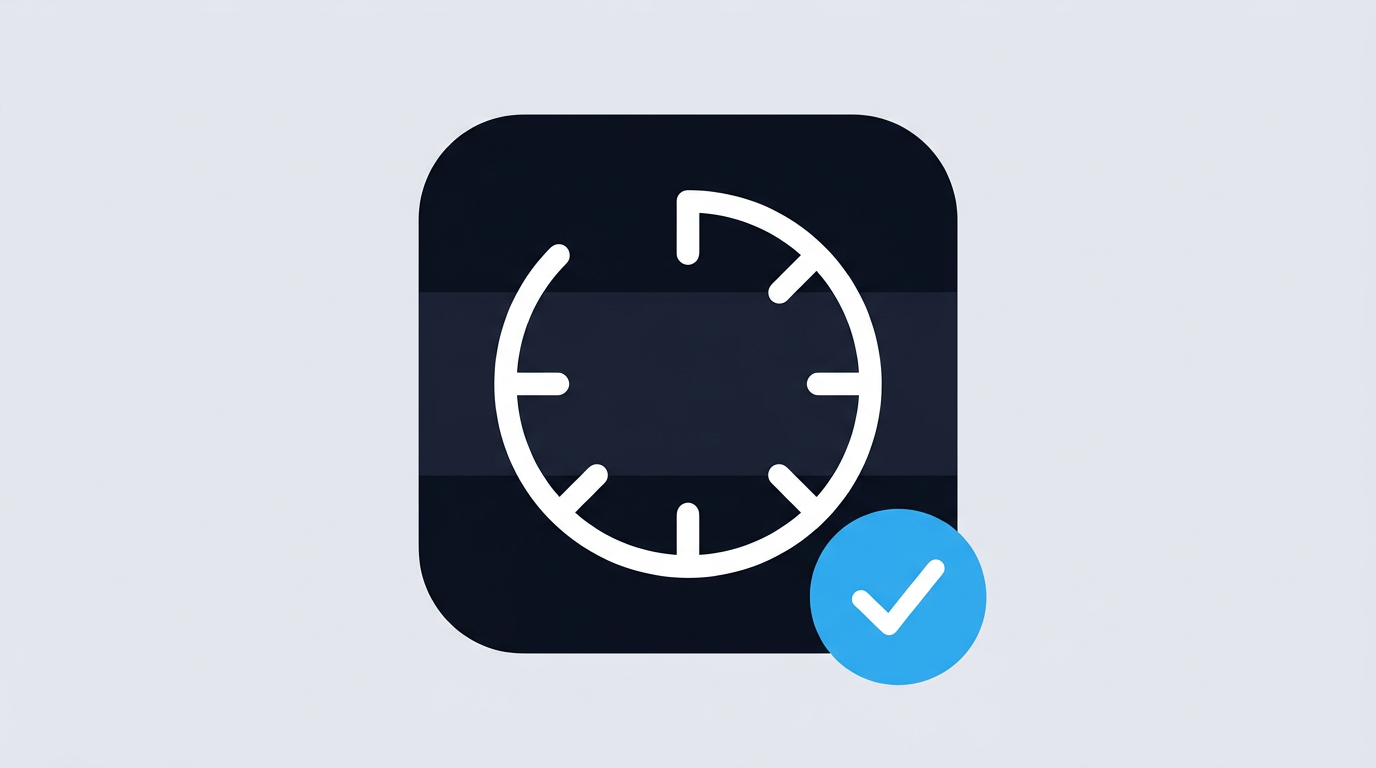
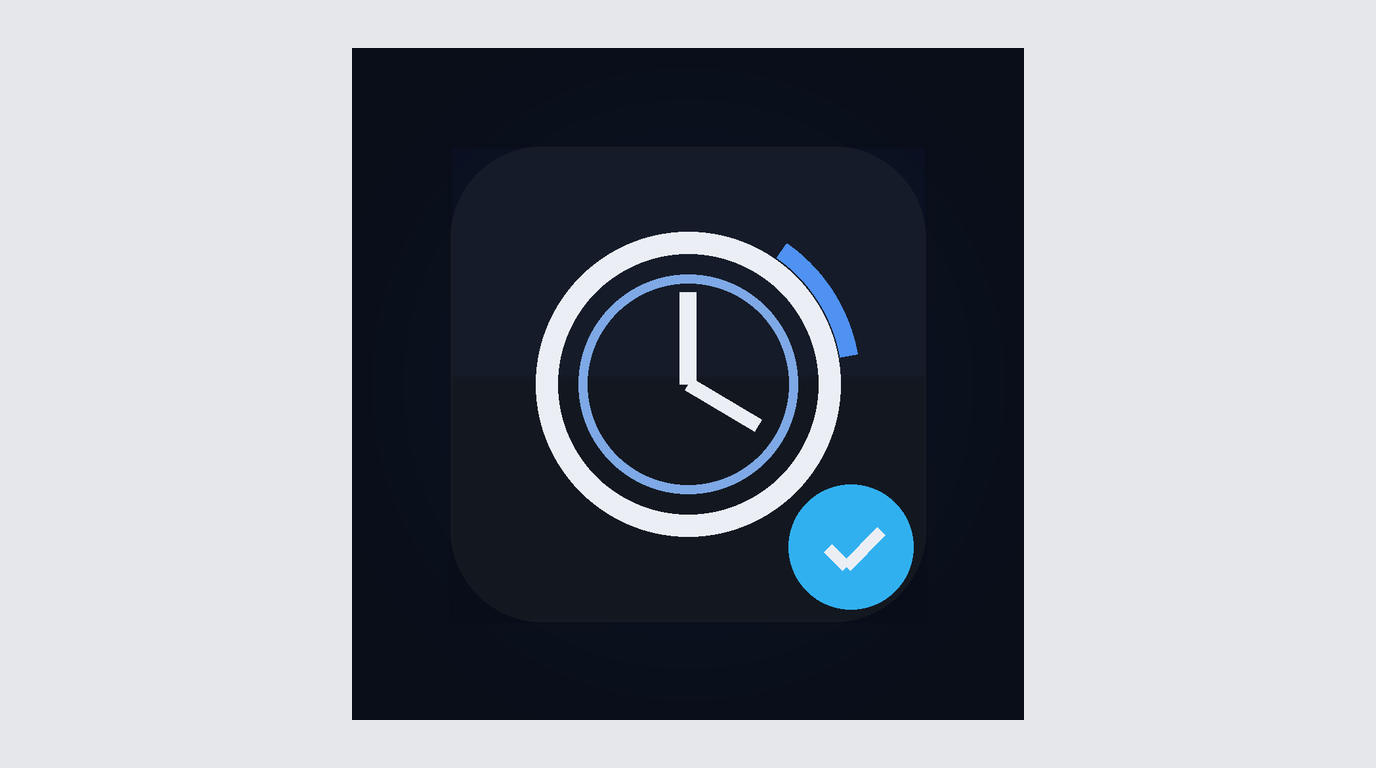
checkpoint (clarity-time-ios) [2026-04-13 11:31]

Changed region(s): [[0.25, 0.0625, 0.75, 0.9375]]

diff --git a/ROADMAP.md b/ROADMAP.md
@@ -227,7 +227,7 @@ This would eliminate the duplicated code across apps and give each app a consist
 | Date | App | Version | Change Summary | Notes |
 |------|-----|---------|----------------|-------|
 | 2026-04-13 | Clarity Triage (iOS) | v0.1 | **App icon + branding:** nested-chevron wide mockup (`docs/design/app-icon-mockup-wide.png`) → `AppIcon.png` 1024 + `Contents.json` filename; **`docs/BRANDING.md`**; `CLAUDE.md` branding + icon spec links | `portfolio/clarity-triage-ios/` · `xcodebuild build` ClarityTriage ✅ (iPhone 15 / iOS 17.2 sim, `CODE_SIGNING_ALLOWED=NO`) |
-| 2026-04-13 | Clarity Time (iOS) | v0.1 | **App icon + branding:** timer-arc wide mockup → `AppIcon.png` 1024 + `Contents.json` filename; **`docs/BRANDING.md`**; `CLAUDE.md` branding + icon spec links | `portfolio/clarity-time-ios/` · `xcodebuild build` ClarityTime ✅ (same destination) |
+| 2026-04-13 | Clarity Time (iOS) | v0.1 | **App icon + branding:** user-selected **clock + progress arc + check badge** 1024 master → `AppIcon.png`; wide `docs/design/app-icon-mockup-wide.png` rebuilt on `#E6E7EB` canvas; provenance `app-icon-source-user-1024.png`; **`docs/BRANDING.md`** + `CHANGELOG` updated | `portfolio/clarity-time-ios/` · `xcodebuild build` ClarityTime ✅ |
 | 2026-04-13 | Clarity Check-in (iOS) | v0.1 | **App icon + branding system:** `AppIcon.png` 1024 + `Contents.json`; **`docs/templates/PORTFOLIO_APP_BRANDING.md`** (copy per app) + **`docs/design/README.md`**; session templates, `new-app-guide`, iOS starter kit, `GLOSSARY`, root `CLAUDE` — app **`docs/BRANDING.md`** filled + `CLAUDE` links there (no repeated rules in chats) | `portfolio/clarity-checkin-ios/` · `xcodebuild build` ClarityCheckin ✅ |
 | 2026-04-13 | Knowledge Base | v1.2 | **Seed expansion:** 169 → 260 bookmarks, 21 → 29 categories (SEED_VERSION 3 → 4). New categories: Scripting (8), Python (8), Blogs (10), Reddit (12), Low Vision & RP (10), Making Money (10), Gospel Study (13), Idea Generation (9). Expanded: Tools (+5 YNAB), Job Search (+6). All URLs verified active. | `portfolio/knowledge-base/`; deployed to Vercel |
 | 2026-04-13 | Clarity Growth (iOS) | v0.1 | **Phase 5 MVP:** `GrowthBlob` + `GrowthStore`; 7 growth areas (`gmat`, `job`, `ai`, `pm`, `claude`, `bom`, `cfm`) with streak/session logic; dashboard + log sheet + history filter/delete; programmatic `ClarityGrowth.xcodeproj` (`CG*` PBX IDs), tests + full app docs (`CLAUDE` / `CHANGELOG` / `ROADMAP` / `HANDOFF` / `LEARNINGS`); root `CLAUDE`/`HANDOFF` updated for 5-phase completion | `portfolio/clarity-growth-ios/`; `xcodebuild build` verified (iPhone 15 / iOS 17.2), rerun `xcodebuild test` when Simulator service is healthy |

diff --git a/HANDOFF.md b/HANDOFF.md
@@ -89,7 +89,7 @@ Do **not** duplicate `CLAUDE.md` or long architecture here — link to issues an
 | **Focus**      | **Knowledge Base v1.3** — category organization + importance ranking. **Clarity iOS:** Check-in + **Triage + Time** now have shipped `AppIcon.png`, wide mockups under each app’s `docs/design/`, and `docs/BRANDING.md` (see root `ROADMAP.md` Change Log). |
 | **Next**       | Knowledge Base v1.4: import/export JSON. Clarity: **Budget + Growth** launcher icons + `docs/BRANDING.md` (same pattern as Triage/Time). Then v0.2+ from [`portfolio/clarity-budget-ios/ROADMAP.md`](portfolio/clarity-budget-ios/ROADMAP.md) / [`portfolio/clarity-growth-ios/ROADMAP.md`](portfolio/clarity-growth-ios/ROADMAP.md). |
 | **Blockers**   | *(none)*                                                                                                                                                                                                                                                                   |
-| **Last touch** | 2026-04-13 — **Clarity Triage** (chevron wide → AppIcon) + **Clarity Time** (timer-arc wide → AppIcon); `xcodebuild build` both schemes ✅; root `ROADMAP` + `HANDOFF` updated.                                                                                                                                                                                      |
+| **Last touch** | 2026-04-13 — **Clarity Time** AppIcon + wide mockup swapped to **user-selected clock** asset (`docs/design/app-icon-source-user-1024.png`); `xcodebuild build` ClarityTime ✅; root `ROADMAP` row updated. Earlier: Triage chevron + Time first ship.                                                                                                                                                                                      |
 
 
 ---

diff --git a/portfolio/clarity-time-ios/docs/BRANDING.md b/portfolio/clarity-time-ios/docs/BRANDING.md
@@ -14,7 +14,7 @@
 | **Stack** | SwiftUI iOS 17 + `ClarityUI` |
 | **Bundle ID** | `com.chasewhittaker.ClarityTime` |
 | **Storage key** | `chase_time_ios_v1` |
-| **Primary ritual** (center glyph concept) | Time sessions + scripture streak — **arc with tick marks** (segments of focus + rhythm) |
+| **Primary ritual** (center glyph concept) | Time sessions + scripture streak — **analog clock** on the navy tile: white outer ring, light-blue inner ring, **two white hands**, **blue progress arc** on the ring (timer / segment of focus) + suite **check badge** |
 
 ---
 
@@ -30,12 +30,13 @@
 | `Contents.json` — `"filename": "AppIcon.png"` on universal iOS slot | ✅ |
 | Icon uses shared shell + unique center glyph per spec | ✅ |
 | `AccentColor.colorset` aligned with badge | ✅ (suite blue) |
-| Wide mockup in `docs/design/` | ✅ `app-icon-mockup-wide.png` |
+| Wide mockup in `docs/design/` | ✅ `app-icon-mockup-wide.png` (1376×768, user mark centered on `#E6E7EB` field) |
 
 | Asset | Path |
 |-------|------|
 | Shipped icon | `ClarityTime/Assets.xcassets/AppIcon.appiconset/AppIcon.png` |
 | Wide reference | `docs/design/app-icon-mockup-wide.png` |
+| User-provided 1024 master (provenance) | `docs/design/app-icon-source-user-1024.png` |
 
 ---
 
@@ -44,3 +45,4 @@
 | Date | Change |
 |------|--------|
 | 2026-04-13 | Shipped AppIcon from wide mockup; `docs/BRANDING.md`; linked from `CLAUDE.md`. |
+| 2026-04-13 | **Canonical mark:** user-supplied 1024 clock + progress arc + check badge → `AppIcon.png`; wide slide asset rebuilt from that master on gray canvas. |

diff --git a/portfolio/clarity-time-ios/CHANGELOG.md b/portfolio/clarity-time-ios/CHANGELOG.md
@@ -2,7 +2,7 @@
 
 ## [Unreleased]
 
-- **App icon:** `docs/design/app-icon-mockup-wide.png` (timer arc + ticks) → `AppIcon.appiconset/AppIcon.png` (1024×1024) via `sips` pad `#E6E7EB` + scale; `Contents.json` filename on universal iOS slot
+- **App icon:** **User-selected** clock mark (`docs/design/app-icon-source-user-1024.png`) → `AppIcon.appiconset/AppIcon.png` (1024×1024); `docs/design/app-icon-mockup-wide.png` = same art centered on `#E6E7EB` 1376×768 for decks; `Contents.json` universal iOS slot unchanged
 - **Branding:** [`docs/BRANDING.md`](docs/BRANDING.md) (from portfolio template); `CLAUDE.md` links branding + shared icon spec
 
 ## v0.1 — 2026-04-12 — Phase 3 MVP
